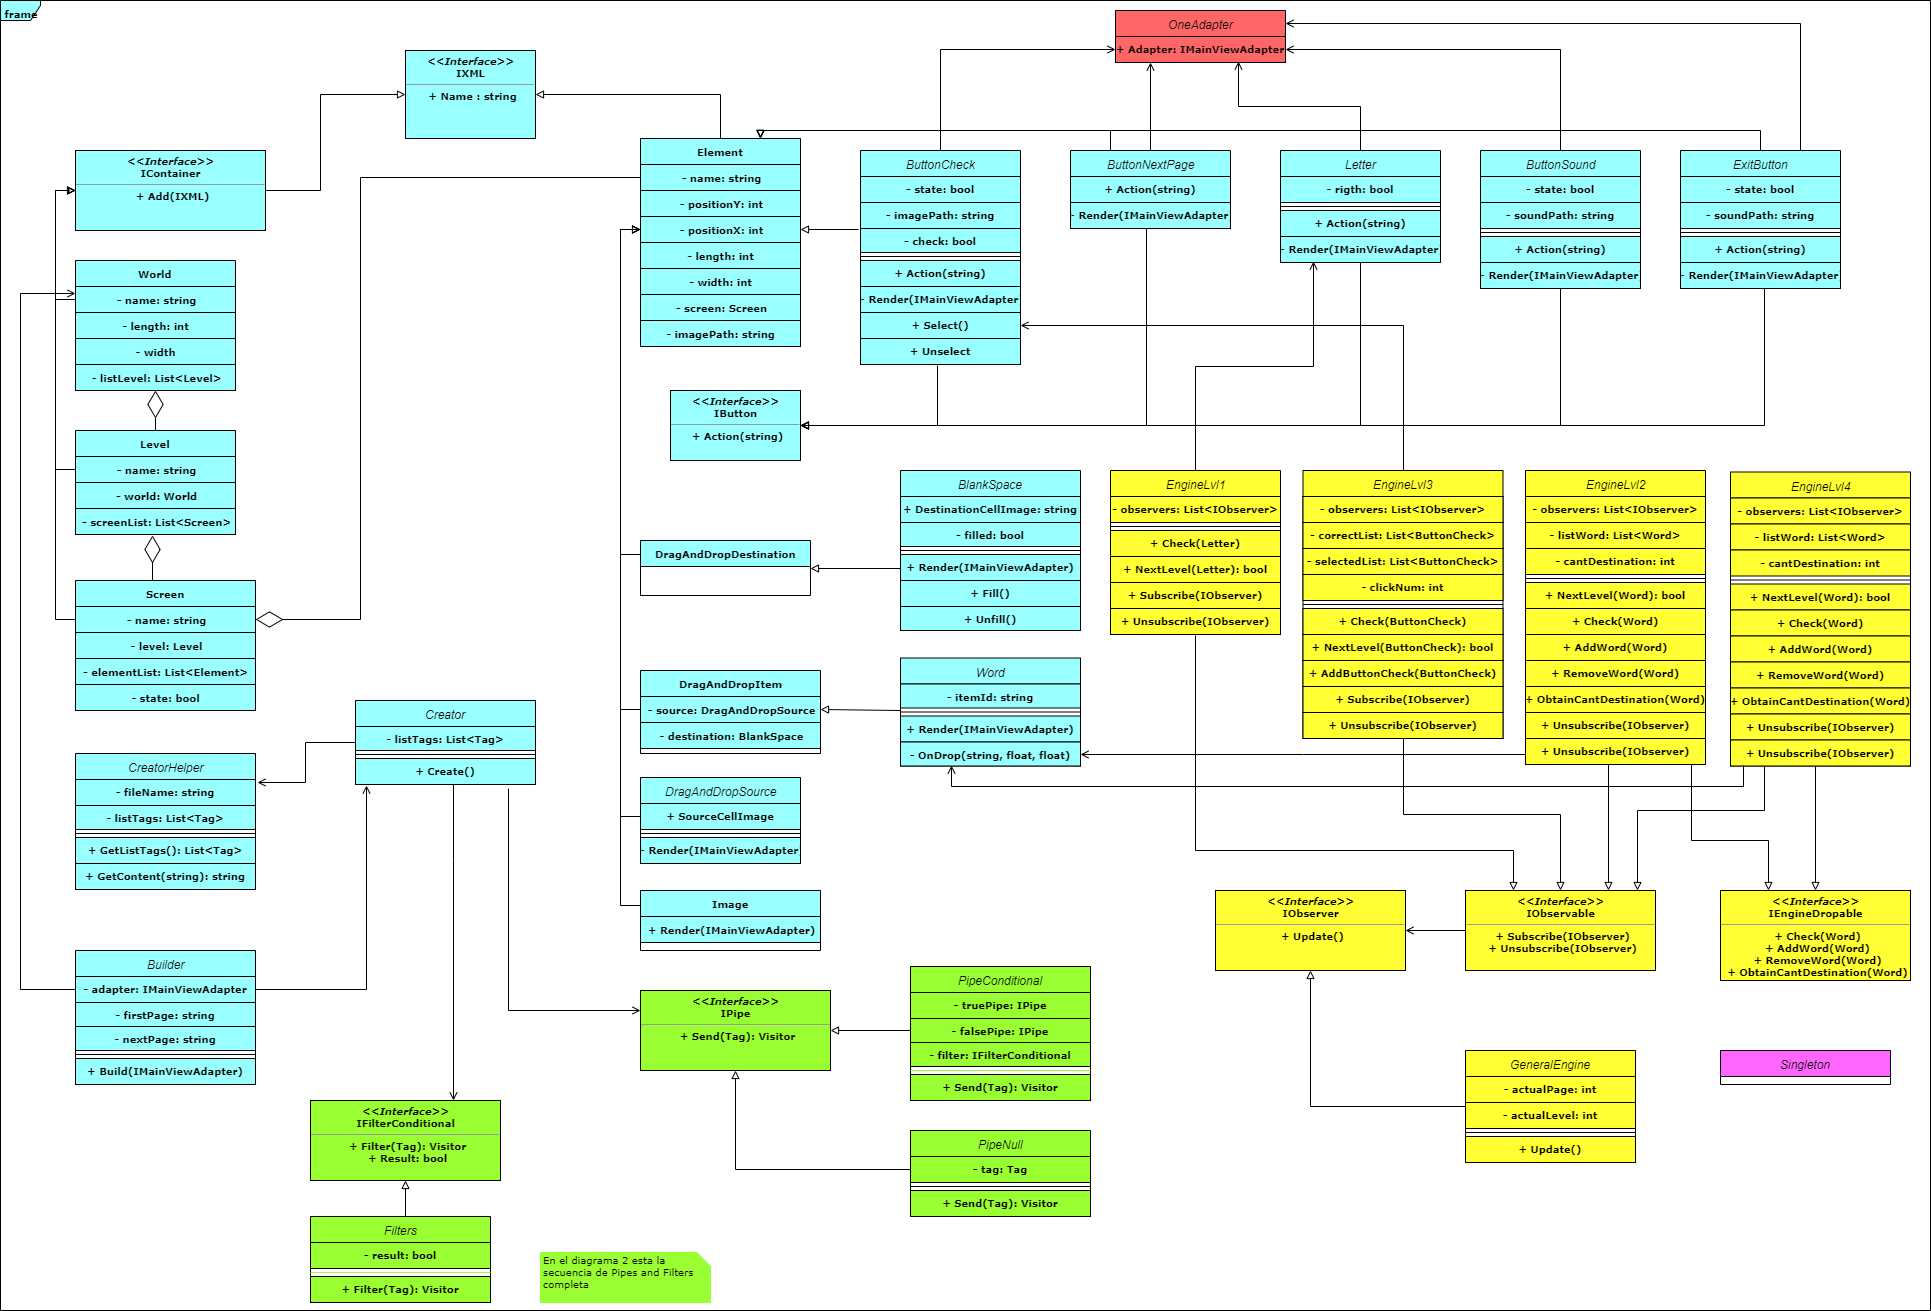
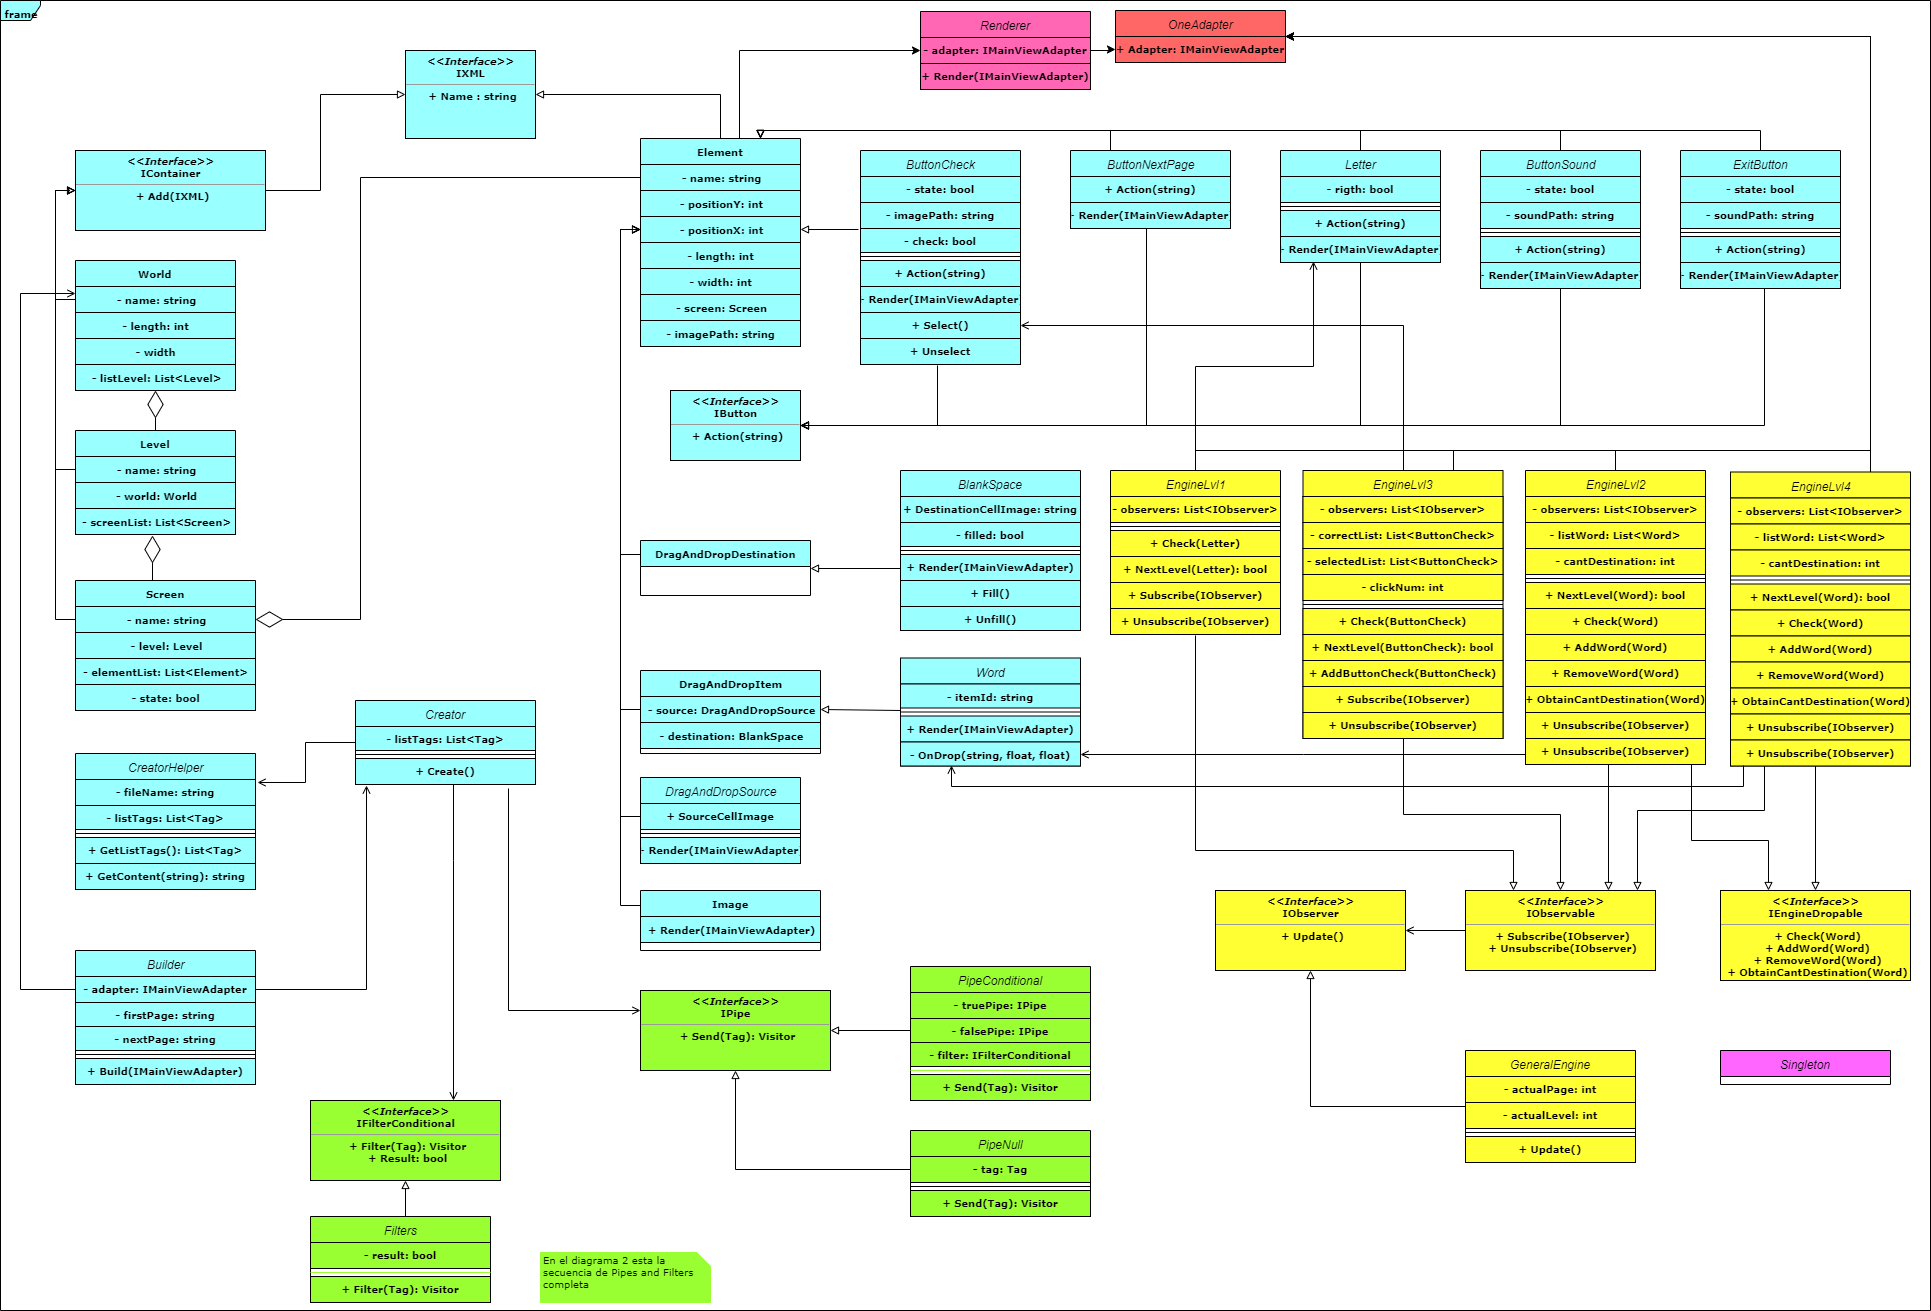
arreglo logica de motores

Changed region(s): [[0.4661, 0.0, 0.5904, 0.0915]]

diff --git a/SegundaEntrega/src/Library/Motor/EngineLvl3.cs b/SegundaEntrega/src/Library/Motor/EngineLvl3.cs
@@ -38,9 +38,10 @@ namespace Library
 
             OneAdapter.Adapter.Debug($"Button clicked!");
             buttonCheck.Select();
-            this.selectedList.Add(buttonCheck);
+            this.AddButtonSelected(buttonCheck);
 
-            this.AddButtonCheck(buttonCheck);
+            this.AddCorrectButton(buttonCheck);
+
             if ((this.clickNum % 2) == 0)
             {
                 if (this.correctList.Count == 2)
@@ -49,14 +50,23 @@ namespace Library
                 }
                 else
                 {
-                    this.correctList.Clear();
-
                     foreach (ButtonCheck button in this.selectedList)
                     {
                         button.Unselect();
+                        OneAdapter.Adapter.SetImage(button.ButtonId, button.ImagePath);
                     }
                 }
             }
+        }
+
+        /// <summary>
+        /// añade el boton a la lista de botones seleccionados.
+        /// </summary>
+        /// <param name="buttonCheck">boton seleccionado.</param>
+        public void AddButtonSelected(ButtonCheck buttonCheck)
+        {
+            this.selectedList.Add(buttonCheck);
+            OneAdapter.Adapter.SetImage(buttonCheck.ButtonId, buttonCheck.ImagePath2);
         }
 
         /// <summary>
@@ -83,21 +93,21 @@ namespace Library
         public void Reset(Screen screen)
         {
             this.correctList.Clear();
-            this.selectedList.Clear();
-            foreach (Element element in screen.ElementList)
+            foreach (ButtonCheck button in this.selectedList)
             {
-                if (element is ButtonCheck)
-                {
-                    ((ButtonCheck)element).Unselect();
-                }
+                button.Unselect();
+                OneAdapter.Adapter.SetImage(button.ButtonId, button.ImagePath);
             }
+
+            this.selectedList.Clear();
+            screen.LevelUncompleted();
         }
 
         /// <summary>
         /// agrega el boton a la lista correcta en el caso de que sea un boton correcto.
         /// </summary>
         /// <param name="buttonCheck"> boton que fue clickeado. </param>
-        public void AddButtonCheck(ButtonCheck buttonCheck)
+        public void AddCorrectButton(ButtonCheck buttonCheck)
         {
             if (buttonCheck.Check & !this.correctList.Contains(buttonCheck))
             {

diff --git a/SegundaEntrega/src/Library/ButtonSound.cs b/SegundaEntrega/src/Library/ButtonSound.cs
@@ -25,6 +25,7 @@ namespace Library
     {
         private bool state;
         private string soundPath;
+        private string buttonId;
 
         public ButtonSound(string name, int positionY, int positionX, int length, int width, Screen screen, string imagePath, string soundPath)
         : base(name, positionY, positionX, length, width, screen, imagePath)
@@ -62,14 +63,30 @@ namespace Library
             }
         }
 
+        public string ButtonId
+        {
+            get
+            {
+                return this.buttonId;
+            }
+
+            set
+            {
+                this.buttonId = value;
+            }
+        }
+
         /// <summary>
         /// accion que realiza el boton de tipo ButtonSound al hacerle click.
         /// </summary>
         /// <param name="name"> nombre del boton. </param>
         public void Action(string name)
         {
-            EngineLvl1 engineLvl1 = Singleton<EngineLvl1>.Instance;
-            engineLvl1.Sound(this);
+            if (name == this.ButtonId)
+            {
+                EngineLvl1 engineLvl1 = Singleton<EngineLvl1>.Instance;
+                engineLvl1.Sound(this);
+            }
         }
 
         /// <summary>

diff --git a/SegundaEntrega/src/Library/Renderer.cs b/SegundaEntrega/src/Library/Renderer.cs
@@ -62,9 +62,9 @@ namespace Library
         /// <param name="buttonSound"> ButtonSound a dibujar. </param>
         public void RenderButtonSound(ButtonSound buttonSound)
         {
-            string buttonId = this.adapter.CreateButton((int)buttonSound.PositionX, (int)buttonSound.PositionY, (int)buttonSound.Width, (int)buttonSound.Length, "#FFFFFFFF", buttonSound.Action);
-            this.adapter.SetImage(buttonId, buttonSound.ImagePath);
-            this.adapter.SetText(buttonId, string.Empty);
+            buttonSound.ButtonId = this.adapter.CreateButton((int)buttonSound.PositionX, (int)buttonSound.PositionY, (int)buttonSound.Width, (int)buttonSound.Length, "#FFFFFFFF", buttonSound.Action);
+            this.adapter.SetImage(buttonSound.ButtonId, buttonSound.ImagePath);
+            this.adapter.SetText(buttonSound.ButtonId, string.Empty);
         }
 
         /// <summary>

diff --git a/SegundaEntrega/src/Library/Motor/EngineLvl1.cs b/SegundaEntrega/src/Library/Motor/EngineLvl1.cs
@@ -31,8 +31,6 @@ namespace Library
         /// <param name="letter"> letra la cual fue clickeada. </param>
         public void Check(Letter letter)
         {
-            OneAdapter.Adapter.Debug($"Button clicked!");
-
             if (letter.Right)
             {
                 this.NextLevel(letter);
@@ -56,7 +54,17 @@ namespace Library
                 observer.Update();
             }
 
+            this.Reset(letter.Screen);
             return true;
+        }
+
+        /// <summary>
+        /// resetea el estado del nivel.
+        /// </summary>
+        /// <param name="screen">screen reseteada.</param>
+        public void Reset(Screen screen)
+        {
+            screen.LevelUncompleted();
         }
 
         public void Sound(ButtonSound buttonSound)

diff --git a/SegundaEntrega/src/Library/Motor/EngineLvl2.cs b/SegundaEntrega/src/Library/Motor/EngineLvl2.cs
@@ -65,6 +65,8 @@ namespace Library
                     ((Word)element).Destination.Unfill();
                     OneAdapter.Adapter.Center(((Word)element).ItemId, ((Word)element).Source.SourceCellImageId);
                 }
+
+                screen.LevelUncompleted();
             }
         }
 

diff --git a/SegundaEntrega/src/Library/Motor/EngineLvl4.cs b/SegundaEntrega/src/Library/Motor/EngineLvl4.cs
@@ -65,6 +65,8 @@ namespace Library
                     ((Word)element).Destination.Unfill();
                     OneAdapter.Adapter.Center(((Word)element).ItemId, ((Word)element).Source.SourceCellImageId);
                 }
+
+                screen.LevelUncompleted();
             }
         }
 
